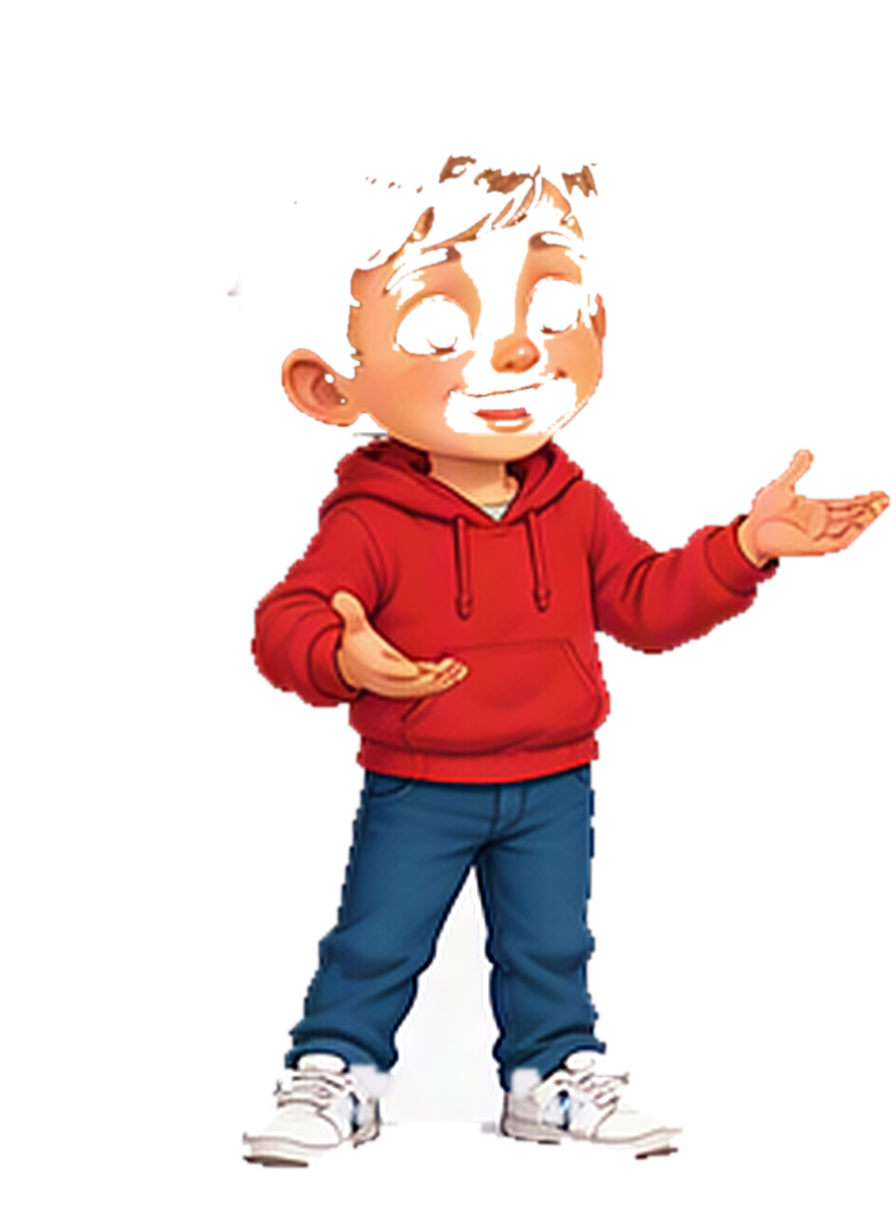
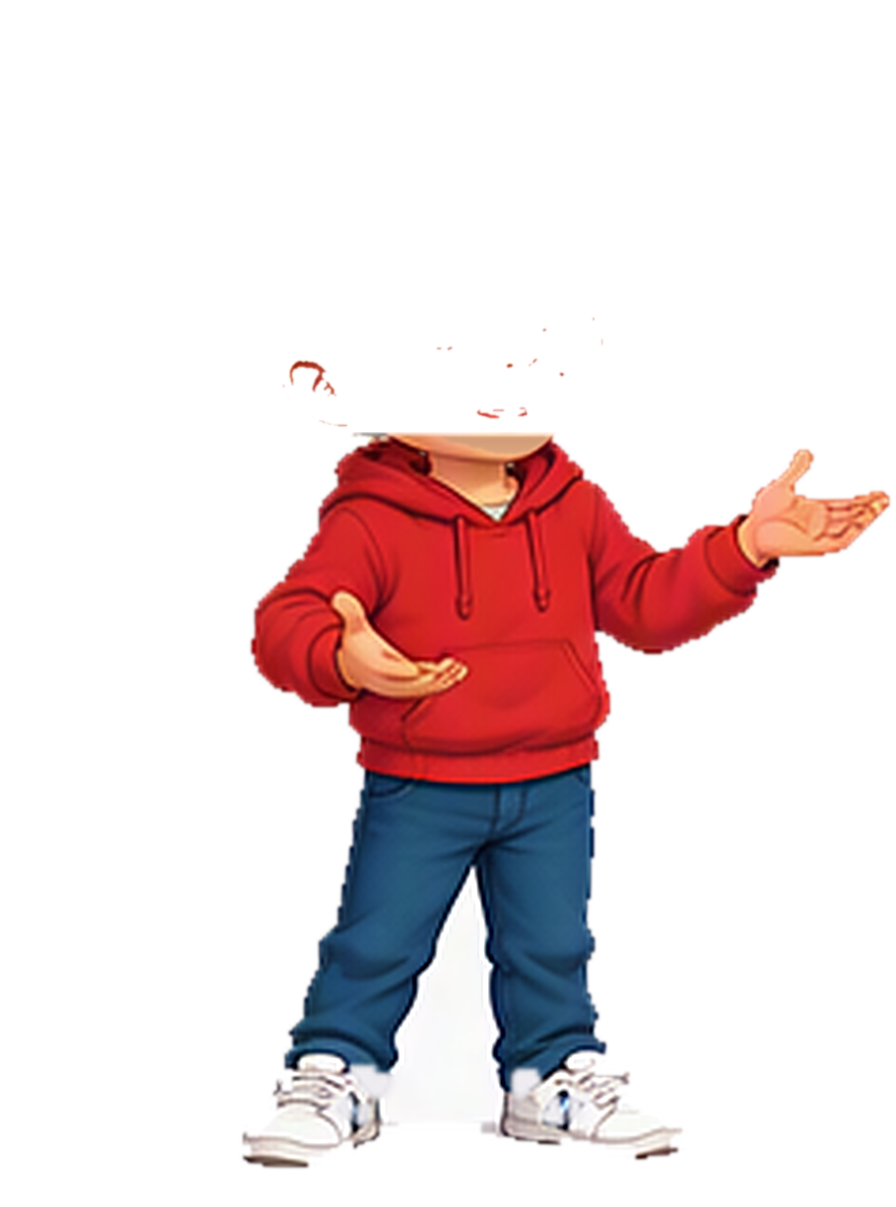
Poses: sin orejas dobles ni brazos cortados, y cambios al compás
- prepare_poses.py: un anillo alrededor de la cabeza original quita el pelo
  y las orejas de la hoja (las hojas dibujan la cabeza algo más grande);
  la capucha y las manos se respetan, y cajas "keep" por pose dejan pasar
  los brazos que suben junto a la cabeza. Lo que asoma de la barbilla de
  la hoja bajo la barbilla original pasa a ser cuello. Capas delanteras
  solo con mano y manga, sin pelo de la hoja.
- director: la pose cambia en la primera sílaba de quien habla, con un
  pequeño hundimiento y rebote; quien escucha responde 0,35 s después y
  solo de vez en cuando; dos frases seguidas del mismo tipo mantienen la
  pose. rasca y susurra fuera de la elección automática.

Claude-Session: https://claude.ai/code/session_0193hWfzVzPtkdWeitjtRJrp

Changed region(s): [[0.3125, 0.1226, 0.6875, 0.3985]]

diff --git a/src/puppets.js b/src/puppets.js
@@ -68,11 +68,14 @@
     return mouth + (shut ? `<image href="${img.blink}" x="0" y="0" width="${rig.w}" height="${rig.h}"/>` : '');
   }
 
-  // how far a pose moves the head down (sitting, crouching...), blended while the pose changes
+  // how far a pose moves the kid down (sitting, crouching...), blended while the pose changes, plus the little dip
+  // and rebound of the change itself (poseK eases with overshoot: down while the new pose comes in, up past 1)
   function poseDy(st) {
     const rig = RIG[st.who], dy = n => (n && rig.poses?.[n] ? rig.feet - rig.poses[n].feet : 0);
     const k = st.poseK ?? 1;
-    return st.pose0 !== st.pose && k < 1 ? dy(st.pose0) + (dy(st.pose) - dy(st.pose0)) * k : dy(st.pose);
+    if (st.pose0 === st.pose || k === 1) return dy(st.pose);
+    const c = Math.min(1, Math.max(0, k));
+    return dy(st.pose0) + (dy(st.pose) - dy(st.pose0)) * c + 14 * Math.sin(Math.PI * Math.min(1.25, k));
   }
 
   function kid(st) {

diff --git a/tools/prepare_poses.py b/tools/prepare_poses.py
@@ -26,29 +26,29 @@ CH = os.path.join(ROOT, 'assets/characters')
 POSES = {
     'poses-1.png': {
         'e-explica': ((13, 53, 332, 354), 'stand', []),
-        'e-senala': ((353, 53, 672, 354), 'stand', []),
+        'e-senala': ((353, 53, 672, 354), 'stand', [('keep', 620, 220, 780, 460)]),
         'e-brazos-cruzados': ((692, 53, 1011, 354), 'stand', []),
         'e-encoge': ((13, 408, 332, 717), 'stand', []),
-        'e-rasca': ((353, 408, 672, 717), 'stand', [(250, 110, 430, 262)]),
+        'e-rasca': ((353, 408, 672, 717), 'stand', [('keep', 180, 250, 310, 480)]),
         'e-manos-cadera': ((692, 408, 1011, 717), 'stand', []),
         'r-mano-barbilla': ((13, 785, 332, 1114), 'stand', [(370, 360, 560, 520)]),
-        'r-levanta-mano': ((353, 785, 672, 1114), 'stand', []),
+        'r-levanta-mano': ((353, 785, 672, 1114), 'stand', [('keep', 150, 50, 335, 430)]),
         'r-senala-a-e': ((692, 785, 1011, 1114), 'stand', []),
         'r-brazos-cruzados': ((13, 1171, 332, 1516), 'stand', []),
         'r-palmas-arriba': ((353, 1171, 672, 1516), 'stand', []),
-        'r-mano-frente': ((692, 1171, 1011, 1516), 'stand', [(250, 150, 470, 330)]),
+        'r-mano-frente': ((692, 1171, 1011, 1516), 'stand', [(270, 105, 435, 268), ('keep', 195, 190, 320, 430)]),
     },
     'poses-2.png': {
-        'e-salta': ((35, 123, 266, 516), 'head', []),
+        'e-salta': ((35, 123, 266, 516), 'head', [('keep', 100, 40, 310, 470), ('keep', 570, 40, 800, 470)]),
         'e-corre': ((266, 131, 490, 516), 'head', []),
-        'e-susurra': ((45, 575, 235, 1000), 'stand', [(520, 300, 640, 470)]),
+        'e-susurra': ((45, 575, 235, 1000), 'stand', [('keep', 540, 260, 720, 480)]),
         'e-pulgar-arriba': ((285, 568, 470, 998), 'stand', []),
-        'e-idea': ((35, 1049, 252, 1457), 'stand', []),
+        'e-idea': ((35, 1049, 252, 1457), 'stand', [('keep', 620, 140, 820, 470)]),
         'e-corazon': ((282, 1050, 469, 1456), 'stand', []),
         'r-con-balon': ((525, 122, 747, 553), 'stand', []),
         'r-caminando': ((771, 122, 990, 557), 'stand', []),
         'r-sentado': ((531, 656, 754, 981), 'head', []),
-        'r-senala-arriba': ((759, 594, 997, 1021), 'stand', []),
+        'r-senala-arriba': ((759, 594, 997, 1021), 'stand', [('keep', 590, 40, 896, 470)]),
         'r-atandose': ((539, 1094, 736, 1435), 'head', []),
         'r-leyendo': ((798, 1059, 993, 1460), 'stand', []),
     },
@@ -250,41 +250,73 @@ def main():
             hsil = h.getchannel('A').crop(hb).resize((round(h.crop(hb).width * s_h), round(h.crop(hb).height * s_h)), Image.LANCZOS)
             hs.paste(hsil, (hx, hy))
             hs = np.asarray(dilate(place(hs.point(lambda v: 255 if v > 40 else 0), 'L'), 24)).astype(float) / 255
+            pose_head = hs.copy()
             # and a wide ring around the original head: the hair of the sheets is messier than the drawing
             oh = np.zeros((Hf, W), np.uint8)
             oh[:rig['h']] = (np.asarray(h.getchannel('A')) > 40) * 255
-            oh = dilate(Image.fromarray(oh), 45)
+            oh = dilate(Image.fromarray(oh), 60)
             hs = np.maximum(hs, np.asarray(oh.filter(ImageFilter.GaussianBlur(4))).astype(float) / 255)
-            # the sleeves stay even near the head (a hand scratching the head, a raised arm)
+            # sleeve colour (for the hands drawn in front of the head)
             bf = np.asarray(big).astype(float)
             r_, g_, b_ = bf[..., 0], bf[..., 1], bf[..., 2]
-            sleeve = ((r_ > 140) & (r_ > g_ + 60) & (r_ > b_ + 60)) if cid == 'e' else ((b_ > 150) & (b_ > r_ + 70) & (b_ > g_ + 20))
+            sleeve = ((r_ > 140) & (r_ > g_ + 100) & (r_ > b_ + 100) & (g_ < 90) & (b_ < 90)) if cid == 'e' else ((b_ > 150) & (b_ > r_ + 70) & (b_ > g_ + 20))
             sleeve = np.asarray(Image.fromarray((sleeve * 255).astype(np.uint8)).filter(ImageFilter.MinFilter(3)).filter(ImageFilter.GaussianBlur(1))).astype(float) / 255
+            if cid == 'e':
+                hair = (bf.max(2) < 200) & (r_ > b_ + 25) & (r_ - g_ < 75) & (g_ > b_)
+            else:
+                hair = (r_ > 120) & (b_ < 0.5 * r_) & (g_ > 0.55 * r_) & (g_ < 0.85 * r_)
+            hair = np.asarray(Image.fromarray((hair * 255).astype(np.uint8)).filter(ImageFilter.MedianFilter(5))) > 127
+            skin = (r_ > 200) & (g_ > 130) & (b_ > 0.52 * r_) & (r_ > g_ + 15) & (g_ > b_ + 10)
+            # arms that pass next to the head (a raised hand, a finger): boxes where the ring does not cut the
+            # hand and the sleeve (the hair of the sheet in the box still goes)
+            for b in front:
+                if b[0] == 'keep':
+                    x0, y0, x1, y1 = b[1:]
+                    arm = ~hair[y0:y1, x0:x1]
+                    hs[y0:y1, x0:x1] *= 1 - arm
+            # the hood never goes (shoulders of a jumping kid come up near the chin)
             hs = hs * (1 - sleeve)
             yy = np.arange(Hf)[:, None]
             # under the chin the pose's neck and hood stay; the original head covers the joint
             hs = hs * np.clip((rig['chin'] - 5 - yy) / 6, 0, 1)
             body_a = al * (1 - hs)
+            # the sheets draw the chin a little lower than the original: under the original chin, what is left of
+            # the sheet's chin and jaw line becomes neck in the shade of the head (the hood and the collar stay)
+            band = (yy >= rig['chin'] - 6) & (yy < rig['chin'] + 60)
+            shirt = (b_ > r_ + 10) | (bf.min(2) > 200)
+            line = (bf.max(2) < 120) & (r_ - g_ < 45) & (r_ - b_ < 60)        # the jaw line, not the hood's shadows
+            chin = band & (pose_head > 0.5) & (skin | line) & ~shirt & (al > 0)
+            cm = np.asarray(Image.fromarray((chin * 255).astype(np.uint8)).filter(ImageFilter.GaussianBlur(1.5))).astype(float)[..., None] / 255
+            # the skin of the drawing, in the shade of the head
+            neck = np.array([int(rig['skin'][i:i + 2], 16) for i in (1, 3, 5)], float)
+            shade = np.clip((yy - rig['chin']) / 30, 0, 1)[..., None]          # darker right under the chin
+            neck_px = neck * (0.84 + 0.1 * shade)
+            bf = bf * (1 - cm) + np.broadcast_to(neck_px, bf.shape) * cm
+            big = Image.fromarray(bf.clip(0, 255).astype(np.uint8))
             # the original head's own silhouette is covered by the head layer: keep the body there (no holes)
             out = os.path.join(CH, cid, 'poses', name[2:])
+            if os.environ.get('POSES_DEBUG'):
+                Image.fromarray(np.dstack([np.asarray(big), al]).clip(0, 255).astype(np.uint8), 'RGBA').save(os.path.join(os.environ['POSES_DEBUG'], name + '.png'))
             rgba = np.dstack([np.asarray(big).astype(float), body_a]).clip(0, 255).astype(np.uint8)
             rgba[rgba[..., 3] == 0] = 0
             Image.fromarray(rgba, 'RGBA').save(out + '.png', optimize=True)
             entry = {'h': Hf, 'feet': round(soles_f - (SOLES - rig['feet']))}
-            if front:
+            if any(b[0] != 'keep' for b in front):
                 fm = Image.new('L', (W, Hf))
                 d = ImageDraw.Draw(fm)
                 for b in front:
-                    d.rectangle(b, fill=255)
+                    if b[0] != 'keep':
+                        d.rectangle(b, fill=255)
                 fm = np.asarray(fm.filter(ImageFilter.GaussianBlur(4))).astype(float) / 255
-                # only the hand / sleeve, not hair or face of the pose: skin-or-sleeve pixels inside the box
-                fa = (al * fm)
+                # only the hand and the sleeve (and their outline), not the hair of the sheet
+                keep = np.asarray(Image.fromarray(((~hair & (skin | (sleeve > 0.5) | (bf.max(2) < 140))) * 255).astype(np.uint8)).filter(ImageFilter.MaxFilter(3)).filter(ImageFilter.GaussianBlur(1))).astype(float) / 255
+                fa = al * fm * keep
                 fr = np.dstack([np.asarray(big).astype(float), fa]).clip(0, 255).astype(np.uint8)
                 fr[fr[..., 3] == 0] = 0
                 Image.fromarray(fr, 'RGBA').save(out + '-front.png', optimize=True)
                 entry['front'] = True
             table[cid][name[2:]] = entry
-            print(name, f's={s:.3f} head s={s_h:.3f} err={err:.3f} soles={soles_f:.0f} h={Hf}', 'front' if front else '')
+            print(name, f's={s:.3f} head s={s_h:.3f} err={err:.3f} soles={soles_f:.0f} h={Hf}', 'front' if entry.get('front') else '')
     for cid in ('e', 'r'):
         p = os.path.join(CH, cid, 'rig.json')
         rig = json.load(open(p))
